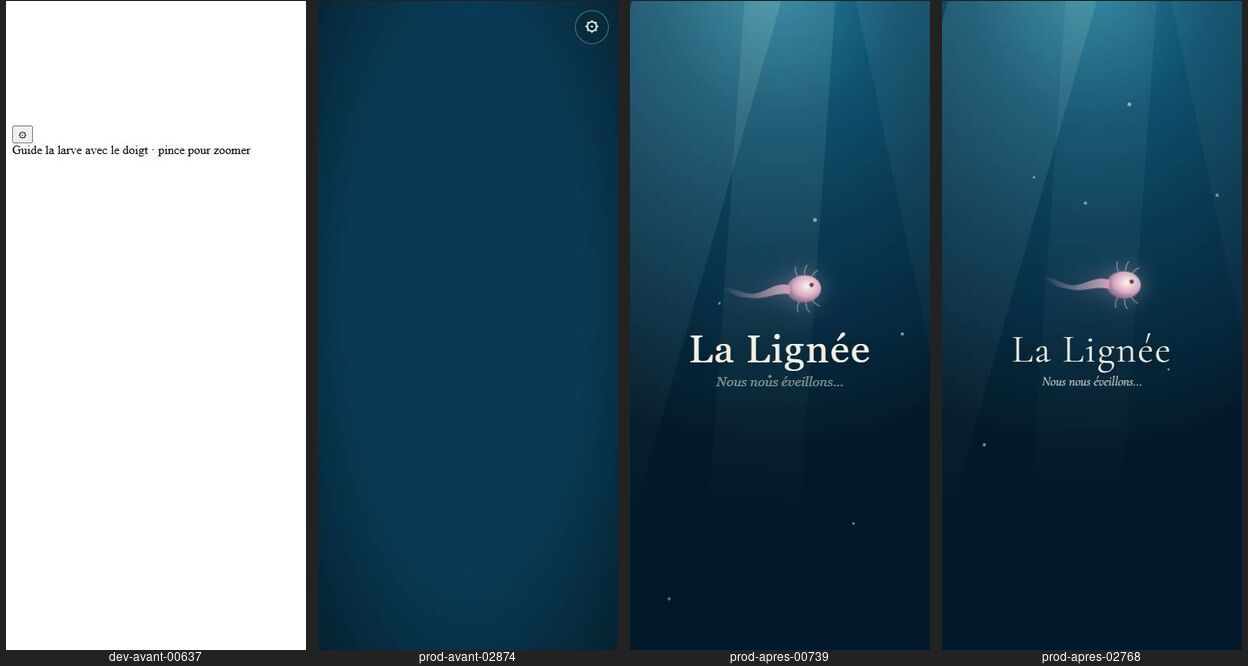
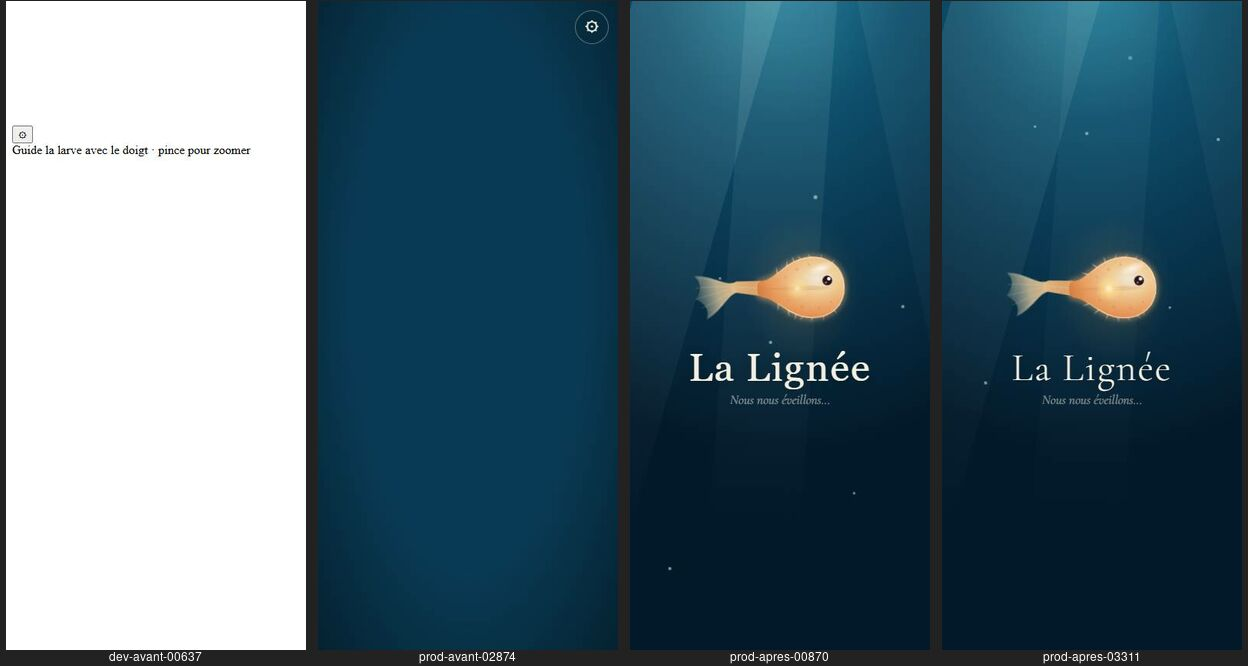
La Lignée: loading screen report and entry, the new larva

Changed region(s): [[0.5312, 0.3604, 0.7188, 0.6306], [0.8125, 0.3604, 0.9375, 0.6306], [0.8438, 0.961, 0.9062, 1.0]]

diff --git a/changes/unreleased/chargement/report.md b/changes/unreleased/chargement/report.md
@@ -7,6 +7,17 @@ Un écran de chargement qui s'affiche avec les premiers kilo-octets de la page, 
 - `index.html` : l'écran `#chargement` (HTML et CSS en ligne, aucun script) en tête du `<body>`, avec son style dans le `<head>`. Il montre la mer bleu profond, trois rayons, six grains de neige marine qui remontent, la larve (SVG), « La Lignée » et « Nous nous éveillons… ». Les animations n'utilisent que `transform` et `opacity`, que le navigateur anime même quand le script du jeu occupe le processeur. Avec `prefers-reduced-motion`, l'écran reste immobile.
 - `index.html` : la feuille Google Fonts ne bloque plus le premier affichage (`media="print" onload`). Avant, sans réseau, elle retenait la page jusqu'à l'échec de la requête.
 - `src/monde/chargement.ts` : `leverRideau()`, appelé à la fin de `main.ts` juste après le premier `requestAnimationFrame(frame)`. Il attend 3 images, puis lance le fondu (0,9 s, avec un léger zoom) et retire l'élément.
+- **La larve** (deuxième passe, à la demande de l'utilisateur, « fais une plus belle créature ») : c'est le premier ancêtre du jeu (`firstAncestor`), ambré et translucide. Elle est faite de calques HTML superposés, chacun animé seulement par `transform` et `opacity` :
+  - un halo chaud qui respire ;
+  - le corps en goutte (SVG), avec un dégradé lumineux, un liseré clair qui s'estompe vers la queue, un reflet, un trait intérieur et quelques chromatophores ;
+  - deux rangées de 7 cils qui battent en vague (un décalage de phase de 0,1 s de l'un à l'autre) ;
+  - une queue en deux segments emboîtés (un ruban, puis une nageoire voilée et nervurée) qui ondule, le second en retard sur le premier ;
+  - la lueur au cœur du corps, qui pulse ;
+  - un grand œil qui cligne toutes les 5 s.
+
+  Le corps lui-même se gonfle à peine au rythme de la nage. Un screencast de la page publiée, sur le téléphone simulé, montre qu'elle bouge à chaque image (environ 60 images/s) pendant tout le démarrage du jeu, même quand le script occupe le processeur.
+
+  ![La larve](img/larve.jpg)
 - `src/monde/chargement-page.ts` : le plugin de build `chargementPlugin()`, branché dans `vite.config.ts` après `viteSingleFile()`. Vite et le plugin singlefile mettaient dans le `<head>` le script du jeu (590 Ko) et le JSON des Nouveautés (550 Ko) : le `<body>` ne commençait qu'à 1,19 Mo. `scriptsLast()` les déplace, dans le même ordre, à la fin du `<body>`, et le `<body>` commence maintenant à 44 Ko. Rien ne change à l'exécution : le script du jeu est un module, lancé une fois la page lue où qu'il soit placé.
 - Tests : `src/monde/chargement-page.test.ts` vérifie le déplacement, le cas d'un `</head>` dans le code, une page sans script, l'écran avant tout script dans `index.html` et l'absence de feuille de style bloquante.
 - Doc : `docs/direction-artistique.md`, section « L'écran de chargement ».
@@ -34,6 +45,7 @@ Pour le voir : `make up`, puis ouvrir le client. Ou, dans les DevTools, réseau 
 | Comment le faire arriver vite dans la page publiée | Déplacer les scripts du `<head>` à la fin du `<body>` au build (plugin `generateBundle` après singlefile) | Le gain est de 2,2 s au premier affichage, sans rien changer au jeu (`auto`) |
 | Quand le retirer | Après 3 images du monde, puis un fondu de 0,9 s | On découvre une mer déjà en mouvement, et les premières images, les plus lentes, restent cachées (`auto`) |
 | Ce qu'il montre | La larve, le titre et une phrase dans la voix du « nous », des rayons et de la neige marine | C'est cohérent avec l'ouverture de la Nurserie, et léger : un SVG et quelques `div` (`auto`) |
+| La créature (2e passe) | La larve du premier ancêtre, en calques HTML animés seulement par transform et opacity, avec ses cils, sa queue qui ondule, sa lueur et ses clignements | C'est elle qu'on joue en premier. Ces calques sont animés par le compositeur, donc ils bougent même pendant que le jeu démarre (`auto`) |
 | Les polices | Non bloquantes (`media="print" onload`) | Sans réseau, la page restait blanche. Le prix : le titre passe de Georgia à Cormorant après ~1 s, le temps que la police arrive (`auto`) |
 
 Aucune question n'a été posée à l'utilisateur.
@@ -54,6 +66,10 @@ Aucune question n'a été posée à l'utilisateur.
 - **Ce qu'il montre**
   - Une barre ou un pourcentage de progression : on ne connaît pas l'avancement réel d'un module unique, ce serait une fausse barre.
   - Seulement le titre : moins vivant.
+- **La créature**
+  - Un portrait rendu par le moteur (`snapshot3.ts`), embarqué en image : c'est exactement la larve du jeu, mais il pèse 10 à 30 Ko de plus avant le premier affichage et il est figé, à moins d'une suite d'images.
+  - Un SVG animé en SMIL ou une forme qui se déforme : l'ondulation serait plus souple, mais ces animations tournent sur le fil principal et gèleraient pendant le démarrage du jeu.
+  - Une autre créature (méduse, poisson) : plus spectaculaire, mais sans lien avec le début de l'histoire.
 - **Les polices**
   - Les garder bloquantes : le titre serait tout de suite en Cormorant, mais on retrouve la page blanche sans réseau ou sur un réseau lent.
   - Les embarquer dans la page : environ 100 Ko de plus, et la licence et le poids sont à décider.
@@ -67,6 +83,7 @@ Aucune question n'a été posée à l'utilisateur.
 - Après la fusion de `backlog` (les vrais sons, en mp3 dans le script), la page publiée pèse 1,6 Mo (920 Ko compressée) : l'écran s'affiche toujours à 49 Ko du début, mais le jeu mettra plus longtemps à arriver.
 - **Le serveur de dev** (celui qu'ouvre le tableau de bord sur un téléphone) reste lent, environ 16 s, parce qu'il charge des centaines de modules un par un. L'écran le cache, mais ne l'accélère pas.
 - **Si le script du jeu échoue** (erreur au démarrage), l'écran reste affiché indéfiniment, au lieu de l'ancienne page cassée. On pourrait ajouter un message « recharger » après un long délai.
+- La larve est dessinée à la main : elle évoque le premier ancêtre sans en être le rendu exact, et une autre couleur de départ (la palette de la partie) ne s'y reflète pas.
 - **Le saut de police** du titre (Georgia puis Cormorant) se voit sur un réseau lent.
 
 ## Risques de fusion

diff --git a/changes/unreleased/chargement/entry.md b/changes/unreleased/chargement/entry.md
@@ -6,4 +6,4 @@ audience: players
 images:
   - img/chargement.jpg
 ---
-Quand tu ouvres le jeu, un écran apparaît presque tout de suite, même sur un téléphone lent ou avec un réseau faible : l'eau bleu profond, des rayons de lumière, quelques grains qui remontent et la petite larve qui ondule sous le nom de La Lignée. Il bouge doucement le temps que la mer se prépare, puis s'efface en fondu pour laisser place au jeu. Fini la page blanche avec ses quelques mots perdus.
+Quand tu ouvres le jeu, un écran apparaît presque tout de suite, même sur un téléphone lent ou avec un réseau faible : l'eau bleu profond, des rayons de lumière, quelques grains qui remontent et la petite larve ambrée sous le nom de La Lignée : ses cils battent en vague, sa queue ondule, sa lueur palpite et elle cligne de l'œil. Il bouge doucement le temps que la mer se prépare, puis s'efface en fondu pour laisser place au jeu. Fini la page blanche avec ses quelques mots perdus.
